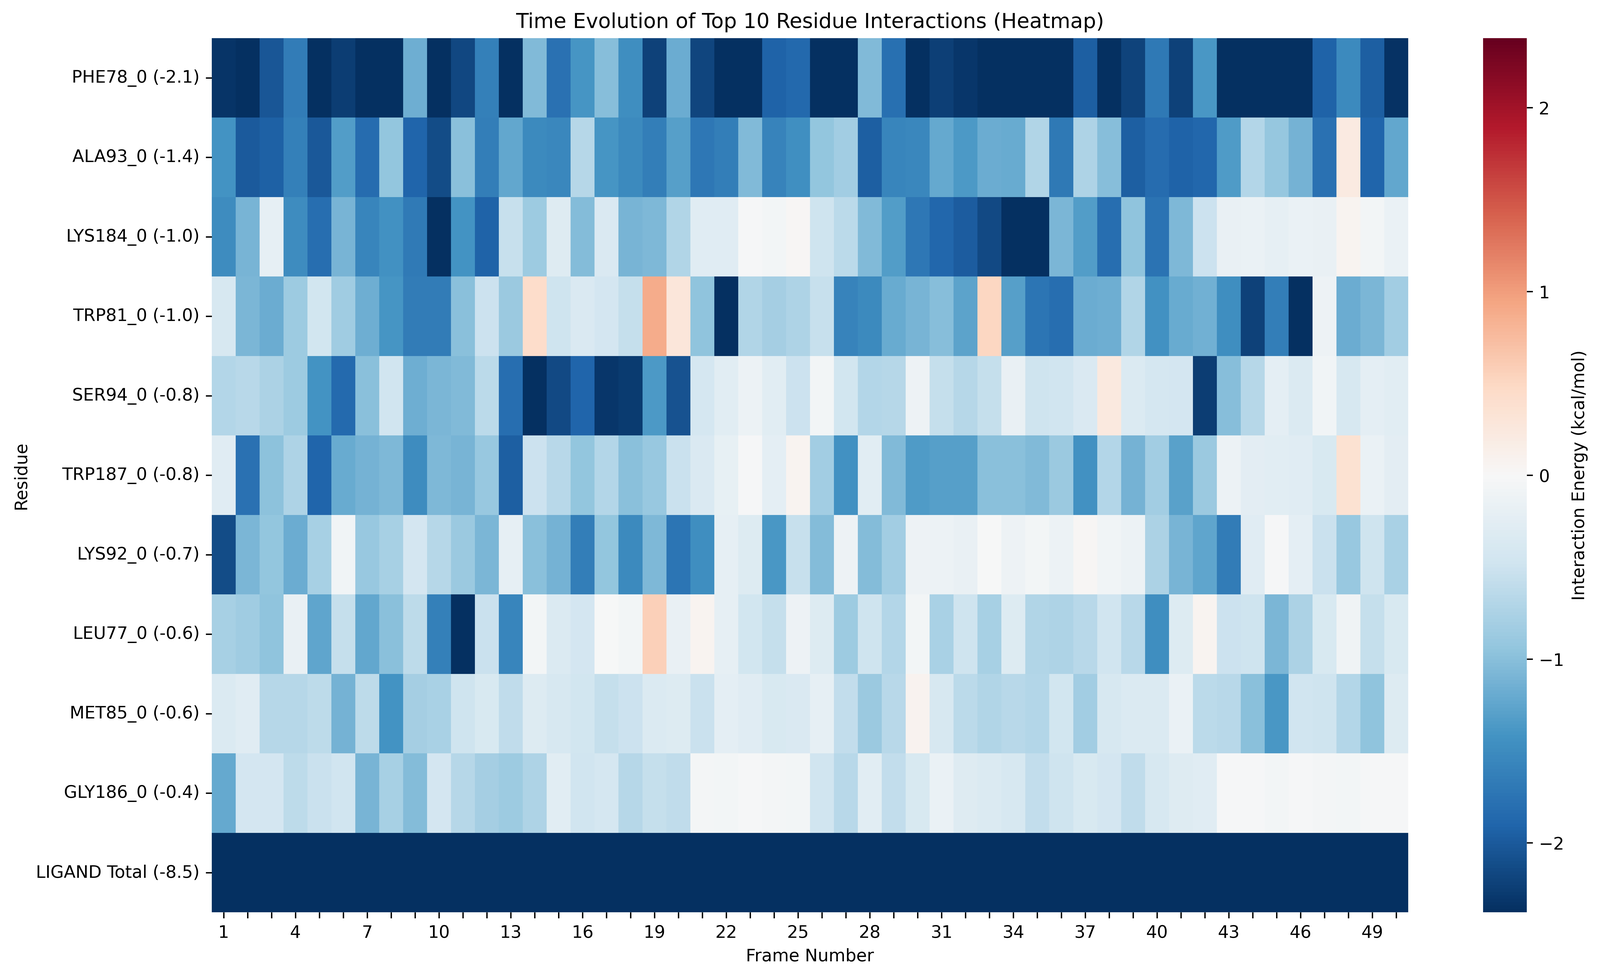
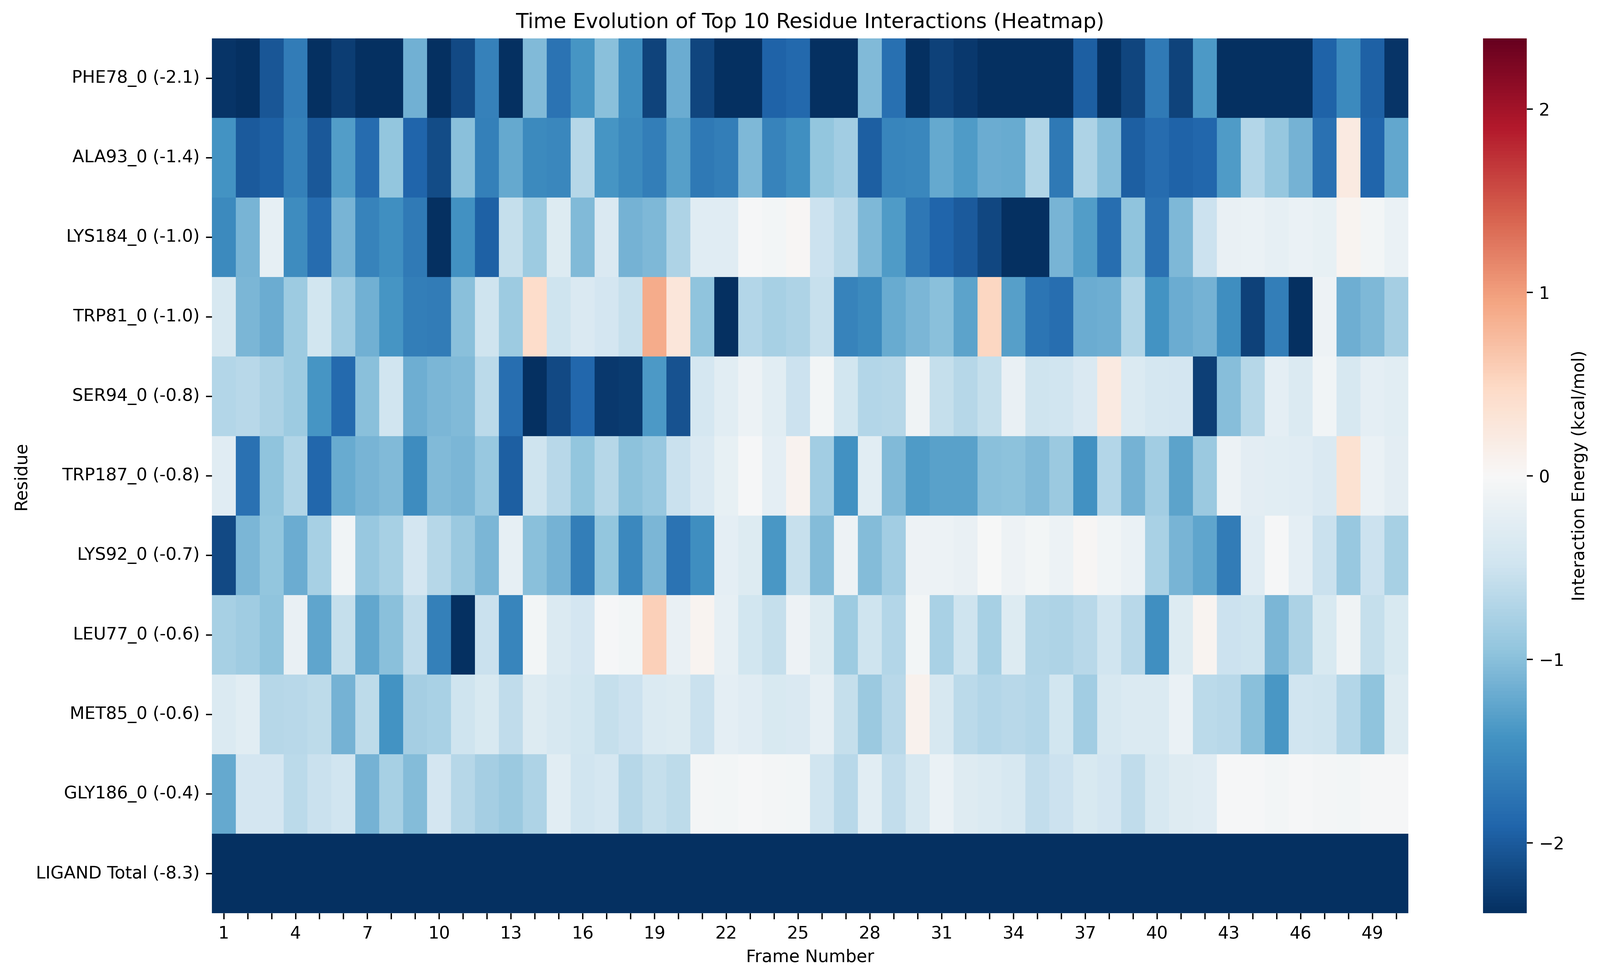
Decomposition check in double precision on GPUs; quickstart and decomposition docs for 0.0.23
- The per-frame check of the decomposition against OpenMM failed on the GPU
  for pembrolizumab Fv + PD-1: in mixed precision CUDA's GB energy of the
  complex (-3400.58 kcal/mol) differed from the exact per-atom sum by 0.046
  kcal/mol, above the 0.01 + 1e-5|E| tolerance. The check Contexts now compute
  in double precision on CUDA and OpenCL (largest deviation over 800 frames
  4.4e-4 kcal/mol); a device without double precision keeps its precision
  and the check allows 1e-4 of the energy. Test added.
- Quickstart on 0.0.23: -24.99 +- 4.60 kcal/mol unchanged, receptor
  residues -8.29 kcal/mol (non-polar -2.89, ligand share -13.81), 70 s on an
  RTX 2080 SUPER; residue, heat-map and PyMOL images regenerated.
- decomposition.rst: OXA-48 agreement with MMPBSA.py idecomp=2 (18 runs,
  4,320 residues, median 3.9e-5, max 0.0034 kcal/mol); what the platform does
  and how precise the check is. CHANGELOG entries for the decomposition.

Changed region(s): [[0.4688, 0.9519, 0.5312, 0.9826], [0.0625, 0.7984, 0.0938, 0.8291], [0.0625, 0.5527, 0.0938, 0.5834]]

diff --git a/mmgbsa/decomposition.py b/mmgbsa/decomposition.py
@@ -670,8 +670,7 @@ class PerResidueDecomposition:
         platform, properties = self.mmgbsa_calculator.setup_optimized_platform(platform_name=decomp_platform)
 
         def context(system):
-            integrator = openmm.VerletIntegrator(0.001 * unit.picosecond)
-            return openmm.Context(system, integrator, platform, properties)
+            return _check_context(system, platform, properties)
 
         systems = {
             'complex_system': complex_system,
@@ -710,7 +709,7 @@ class PerResidueDecomposition:
             if ctx is None:
                 decomp_platform = getattr(self.mmgbsa_calculator, 'decomposition_platform', None)
                 platform, properties = self.mmgbsa_calculator.setup_optimized_platform(platform_name=decomp_platform)
-                ctx = openmm.Context(systems[f'{key}_system'], openmm.VerletIntegrator(0.001), platform, properties)
+                ctx = _check_context(systems[f'{key}_system'], platform, properties)
                 systems[f'{key}_context'] = ctx
             contexts[name] = ctx
         nonpolar = self._nonpolar_convention()
@@ -1785,6 +1784,7 @@ class _FrameDecomposer:
         coords = {'complex': pos, 'receptor': pos[self.rec], 'ligand': pos[self.lig]}
         energies = {}
         worst = 0.0
+        rtol = max(_relative_tolerance(self.contexts[name]) for name in ('complex', 'receptor', 'ligand'))
         for name in ('complex', 'receptor', 'ligand'):
             ctx = self.contexts[name]
             ctx.setPositions(coords[name])
@@ -1797,7 +1797,7 @@ class _FrameDecomposer:
             for value, ref, label in compared:
                 dev = abs(value - ref)
                 worst = max(worst, dev)
-                if dev > 0.01 + 1e-5 * abs(ref):
+                if dev > 0.01 + rtol * abs(ref):
                     raise DecompositionError(
                         f"{name} {label} solvation: per-atom energies sum to {value:.6f} kcal/mol, "
                         f"OpenMM gives {ref:.6f} kcal/mol for the same coordinates")
@@ -1805,7 +1805,7 @@ class _FrameDecomposer:
                               polar_ref, nonpolar_ref)
         delta = [energies['complex'][k] - energies['receptor'][k] - energies['ligand'][k] for k in range(4)]
         dev_int = max(abs(elec_int - delta[0]), abs(vdw_int - delta[1]))
-        if dev_int > 0.01 + 1e-5 * (abs(delta[0]) + abs(delta[1])) and not self._warned_interaction:
+        if dev_int > 0.01 + rtol * (abs(delta[0]) + abs(delta[1])) and not self._warned_interaction:
             self._warned_interaction = True
             log.warning(f"Per-residue van der Waals/electrostatic interaction ({vdw_int:.4f}/{elec_int:.4f} "
                         f"kcal/mol) differs from OpenMM's complex-receptor-ligand difference "
@@ -1820,6 +1820,37 @@ class _FrameDecomposer:
 
 _CHECK_FIELDS = ('max_solvation_deviation', 'max_interaction_deviation', 'openmm_binding_energy',
                  'openmm_binding_energy_without_nonpolar', 'openmm_nonpolar')
+
+_PRECISION_PROPERTY = {'CUDA': 'CudaPrecision', 'OpenCL': 'OpenCLPrecision'}
+
+
+def _check_context(system, platform, properties):
+    """A Context for the per-frame check against OpenMM, in double precision on
+    CUDA and OpenCL. In mixed precision a GPU's GB energy differs from the exact
+    sum by up to about 1e-5 of its value (0.046 kcal/mol for the 3,400 kcal/mol
+    of an antibody Fv-PD-1 complex), which would hide errors of that size. A
+    device without double precision keeps the platform's precision, and the
+    check then allows 1e-4 of the energy (_relative_tolerance)."""
+    key = _PRECISION_PROPERTY.get(platform.getName())
+    if key and (properties or {}).get(key) != 'double':
+        try:
+            return openmm.Context(system, openmm.VerletIntegrator(0.001), platform,
+                                  dict(properties or {}, **{key: 'double'}))
+        except Exception as e:
+            log.warning(f"The decomposition check runs in {platform.getName()}'s "
+                        f"{(properties or {}).get(key, 'default')} precision: double precision "
+                        f"is not available ({e}).")
+    return openmm.Context(system, openmm.VerletIntegrator(0.001), platform, properties or {})
+
+
+def _relative_tolerance(ctx):
+    """Allowed deviation from OpenMM, as a fraction of the energy: 1e-5 for a
+    double-precision Context and the CPU platform (measured: up to 5e-7), 1e-4
+    for a GPU Context in mixed or single precision (measured: up to 1.4e-5)."""
+    key = _PRECISION_PROPERTY.get(ctx.getPlatform().getName())
+    if key and ctx.getPlatform().getPropertyValue(ctx, key) != 'double':
+        return 1e-4
+    return 1e-5
 
 
 # ==============================================================================

diff --git a/test/unit/test_decomposition_exactness.py b/test/unit/test_decomposition_exactness.py
@@ -441,3 +441,25 @@ def test_failed_decomposition_raises():
     with pytest.raises(DecompositionError):
         decomp.run_per_residue_analysis(None, None, None, None, skip_baseline=True,
                                          baseline_results={"mean_binding_energy": 0.0})
+
+
+def test_check_contexts_compute_in_double_precision():
+    """The per-frame check against OpenMM runs in double precision on CUDA and
+    OpenCL: in mixed precision the GB energy of an antibody Fv-PD-1 complex
+    (3,400 kcal/mol) differs from the exact sum by up to 0.046 kcal/mol."""
+    from mmgbsa.decomposition import _check_context, _relative_tolerance
+
+    system = openmm.System()
+    system.addParticle(1.0)
+    ctx = _check_context(system, openmm.Platform.getPlatformByName("Reference"), {})
+    assert _relative_tolerance(ctx) == 1e-5
+    for name, key in (("CUDA", "CudaPrecision"), ("OpenCL", "OpenCLPrecision")):
+        try:
+            platform = openmm.Platform.getPlatformByName(name)
+            ctx = _check_context(system, platform, {key: "mixed"})
+        except Exception:
+            continue  # platform or device not usable here
+        precision = platform.getPropertyValue(ctx, key)
+        if name == "CUDA":
+            assert precision == "double"
+        assert _relative_tolerance(ctx) == (1e-5 if precision == "double" else 1e-4)

diff --git a/CHANGELOG.md b/CHANGELOG.md
@@ -14,6 +14,10 @@ Every option checked against what it does, the defects found fixed, and a user g
 - **`solute_dielectric` now acts as Amber's `intdiel`:** the Coulomb energy, 1-4 pairs included, is divided by it as well as the GB term (checked against `sander`: `intdiel=2` halves EEL and 1-4 EEL and scales EGB by (1/2 - 1/78.5)/(1 - 1/78.5)). Before, OBC1/OBC2 applied it to the GB term only.
 - **Salt screening follows the configured temperature** in every model. With `amber_compatible` it is `sander`'s constant κ = 0.73·√(0.10806 I) Å⁻¹, which depends on neither the temperature nor `extdiel` (checked against `sander`; the salt effect on a DNA-peptide test system agrees within 0.01 kcal/mol for all five models).
 - **GBn2 gave the terminal residues of nucleic acids protein parameters.** Amber's terminal names (`DG5`, `DC3`, ... with the suffixes 5, 3 and N) and the CHARMM names now get the nucleic-acid parameters, as in `sander`; on a DNA-peptide test system this moved the GB energy by 131 kcal/mol, to within 0.19 kcal/mol of `sander`. GBn and GBn2 also used default screening factors for ParmEd atoms, whose element is an atomic number.
+- **The per-residue decomposition now divides the run's own energies among the atoms.** It recomputed the polar term with OBC2 and a 25 Å Born-radius cutoff whatever `gb_model` and `rgbmax` were, the non-polar term from Shrake-Rupley areas whatever `sa_model` was, and the van der Waals term from ParmEd's Lennard-Jones parameters, which were 4.184 times too small for Amber topologies with Lorentz-Berthelot combination (CHARMM chamber topologies were not affected). Every per-atom energy is now read from the forces of the complex, receptor and ligand Systems that the run evaluates (new module `mmgbsa/solvation_peratom.py`): all five GB models, `rgbmax`, salt, the dielectrics, LCPO with either typing and ACE. The receptor residues plus the ligand's share add up to the binding energy of each frame. With `amber_compatible` the per-residue non-polar term follows MMPBSA.py's decomposition, which uses a numerical surface (Shrake-Rupley areas times 0.0072 kcal/mol/Å²) instead of LCPO, as before. Against MMPBSA.py's `idecomp=2` on 18 OXA-48 runs (4,320 residues) the per-residue totals differ by at most 0.0034 kcal/mol. The quickstart decomposition takes 57 s instead of 238 s on a GPU.
+- **Every decomposed frame is checked against OpenMM** and the result is written to `decomposition_energy_check.csv`. A frame that cannot be decomposed stops the decomposition with an error; frames were skipped silently, and when the GB decomposition failed a distance-based estimate replaced the per-residue solvation terms.
+- **Parallel CPU decomposition** no longer hangs: forked workers crashed inside OpenMM and were replaced endlessly. The workers now only run NumPy and a dead worker is reported. The serial and parallel paths give identical tables, with the residues in the same order in every run, and exception corrections are halved like the pair terms on both paths (with `report_raw_energies` they changed the serial values only).
+- The GROMACS and OpenMM converters gave GBn `mbondi` radii; they now give `bondi`, as every other input. No validation or application run used GBn with these inputs.
 - **`ligand_selection` without `receptor_selection` failed** on every frame: the receptor now is every other atom (and the ligand every other atom with a lone `receptor_selection`). Overlapping selections and selections that match nothing are errors; atoms in neither selection are left out and reported.
 - **`binding_mode: ppi`** on a topology with one chain or with more than two chains stops with an error that asks for selections, instead of failing every frame or dropping chains.
 - **`frame_stride` was ignored by `frame_selection: equidistant`.** The frames are chosen in one place, in a fixed order: range, stride, selection. With a stride of 1 every method gives the frames of 0.0.22. A `frame_start` or `frame_end` outside the trajectory is clamped with a warning. `random_seed` defaults to 42 for random selection, as documented.

diff --git a/docs/source/user_guide/decomposition.rst b/docs/source/user_guide/decomposition.rst
@@ -45,14 +45,18 @@ of every pair term and its own change of solvation.
 
 *Validation.* For all five GB models, with and without ``rgbmax`` and salt, and
 for LCPO and ACE, the per-atom terms add up to OpenMM's energies of the complex,
-the receptor and the ligand to within 10⁻⁹ kcal/mol (``test/unit/test_decomposition_exactness.py``).
+the receptor and the ligand on the Reference platform to within 10⁻⁹ kcal/mol.
+``test/unit/test_decomposition_exactness.py`` checks this with a tolerance of
+10⁻³ kcal/mol.
 Against Amber MMPBSA.py's decomposition (``idecomp=2``) on 3CLpro with
 baicalein, 306 receptor residues over three frames, the van der Waals,
 electrostatic and polar terms of every model agree with a Pearson
 :math:`r` of 1.000 and differences of at most 0.008 kcal/mol, and with
-``amber_compatible`` the totals with :math:`r \geq 0.999998`.
-
-.. TODO OXA Table S2 numbers with 0.0.23 after the rerun
+``amber_compatible`` the totals with :math:`r \geq 0.999998`. On 18 runs of nine
+OXA-48 complexes, 4,320 receptor residues averaged over 200 frames each,
+OpenGBSA with ``amber_compatible`` and MMPBSA.py's ``idecomp=2`` agree with
+:math:`r > 0.9999` for every term. The per-residue totals differ by a median of
+3.9 × 10⁻⁵ kcal/mol and by at most 0.0034 kcal/mol.
 
 .. _opt-run_per_residue_decomposition:
 
@@ -125,7 +129,19 @@ results use ``run_per_residue_decomposition``.
 Platforms
 ---------
 
-``platform_settings.decomposition_platform`` sets the platform of the
-decomposition (:ref:`opt-decomposition_platform`). With ``CPU`` it runs in
-``advanced_settings.n_jobs`` processes (:ref:`opt-n_jobs`). Serial and parallel
-runs give the same contributions.
+The per-atom energies are computed with NumPy from the parameters of the run's
+forces. ``platform_settings.decomposition_platform``
+(:ref:`opt-decomposition_platform`) sets the OpenMM platform that computes the
+complex, receptor and ligand energies of every decomposed frame for the check
+in ``decomposition_energy_check.csv``. With ``CPU`` the frames are divided among
+``advanced_settings.n_jobs`` processes (:ref:`opt-n_jobs`); with a GPU platform
+they are decomposed one after another. Serial and parallel runs give the same
+contributions.
+
+On CUDA and OpenCL the check computes in double precision, whatever precision
+the run uses. In mixed precision a GPU's GB energy of a large complex differs
+from the exact sum by up to about 10⁻⁵ of its value: 0.046 kcal/mol for the
+3,400 kcal/mol of an antibody Fv bound to PD-1, against 4 × 10⁻⁴ kcal/mol in
+double precision. A frame fails the check when a per-atom sum differs from
+OpenMM's energy by more than 0.01 kcal/mol plus 10⁻⁵ of the energy, or 10⁻⁴ on
+a GPU without double precision.

diff --git a/docs/source/quickstart.rst b/docs/source/quickstart.rst
@@ -3,7 +3,7 @@ Quickstart
 
 This page runs a complete calculation on a protein-ligand complex that ships
 with the repository: the OXA-family beta-lactamase 6T1H with the inhibitor
-1151. It takes a few minutes on a GPU and needs no download besides the
+1151. It takes about a minute on a GPU and needs no download besides the
 repository itself.
 
 1. Get the example
@@ -58,7 +58,7 @@ From the root of the repository:
 
 The log names each step. The first lines show the platform that was chosen,
 for example ``Running on OpenMM platform: CUDA``. On an NVIDIA RTX 2080 SUPER
-the whole run takes 4 to 6 minutes, most of it in the per-residue
+the whole run takes about 70 seconds, most of it in the per-residue
 decomposition, and longer when other programs keep the CPU busy. Without a GPU
 it runs on the CPU and takes longer.
 
@@ -82,13 +82,14 @@ because the interaction energy fluctuates too much. :doc:`theory/entropy_methods
 explains why. Small differences in the last digit between GPU and CPU runs are
 normal.
 
-The log also prints the sum of the receptor-residue contributions of the
-per-residue decomposition, -8.50 kcal/mol here. It is not expected to equal the
-binding enthalpy. As in Amber's per-residue decomposition, each van der Waals
-and electrostatic term between a receptor residue and the ligand is split
-equally between the two, so half of it belongs to the ligand. The ligand's own
-change in polar solvation and the non-polar term are not assigned to receptor
-residues either (:doc:`user_guide/outputs`).
+The log also shows how the per-residue decomposition divides the binding
+enthalpy. The receptor residues give -8.29 kcal/mol from van der Waals,
+electrostatic and polar solvation terms, their non-polar term gives -2.89
+kcal/mol and the ligand's share -13.81 kcal/mol. Together they give the binding
+enthalpy. The ligand's share is large because, as in Amber's per-residue
+decomposition, each van der Waals and electrostatic term between a receptor
+residue and the ligand is split equally between the two
+(:doc:`user_guide/decomposition`).
 
 All files are written to ``quickstart_results/analysis_<date>_<time>/``
 (:doc:`user_guide/outputs` describes each one). The most useful ones are:

diff --git a/docs/source/user_guide/running_analysis.rst b/docs/source/user_guide/running_analysis.rst
@@ -70,9 +70,12 @@ example ``CUDA_VISIBLE_DEVICES=1 opengbsa config.yaml``.
 :Default: the platform of the calculation
 :Values: as ``preferred_platform``
 
-The platform of the per-residue decomposition. With ``CPU`` the decomposition
-runs in ``advanced_settings.n_jobs`` processes, which can be faster than a GPU
-for small systems.
+The platform of the per-residue decomposition. The per-atom energies are
+computed with NumPy; this platform computes each decomposed frame's complex,
+receptor and ligand energies, against which OpenGBSA checks them
+(:doc:`decomposition`). With ``CPU`` the frames are divided among
+``advanced_settings.n_jobs`` processes; with a GPU platform they are decomposed
+one after another in one process.
 
 .. _opt-strict_platform:
 

diff --git a/docs/source/user_guide/first_example.rst b/docs/source/user_guide/first_example.rst
@@ -131,4 +131,3 @@ The run ends with a summary:
 
     Mean binding energy (Enthalpy): -24.99 ± 4.60 kcal/mol (Standard Deviation)
 
-.. TODO re-check this line against the 0.0.23 quickstart output
